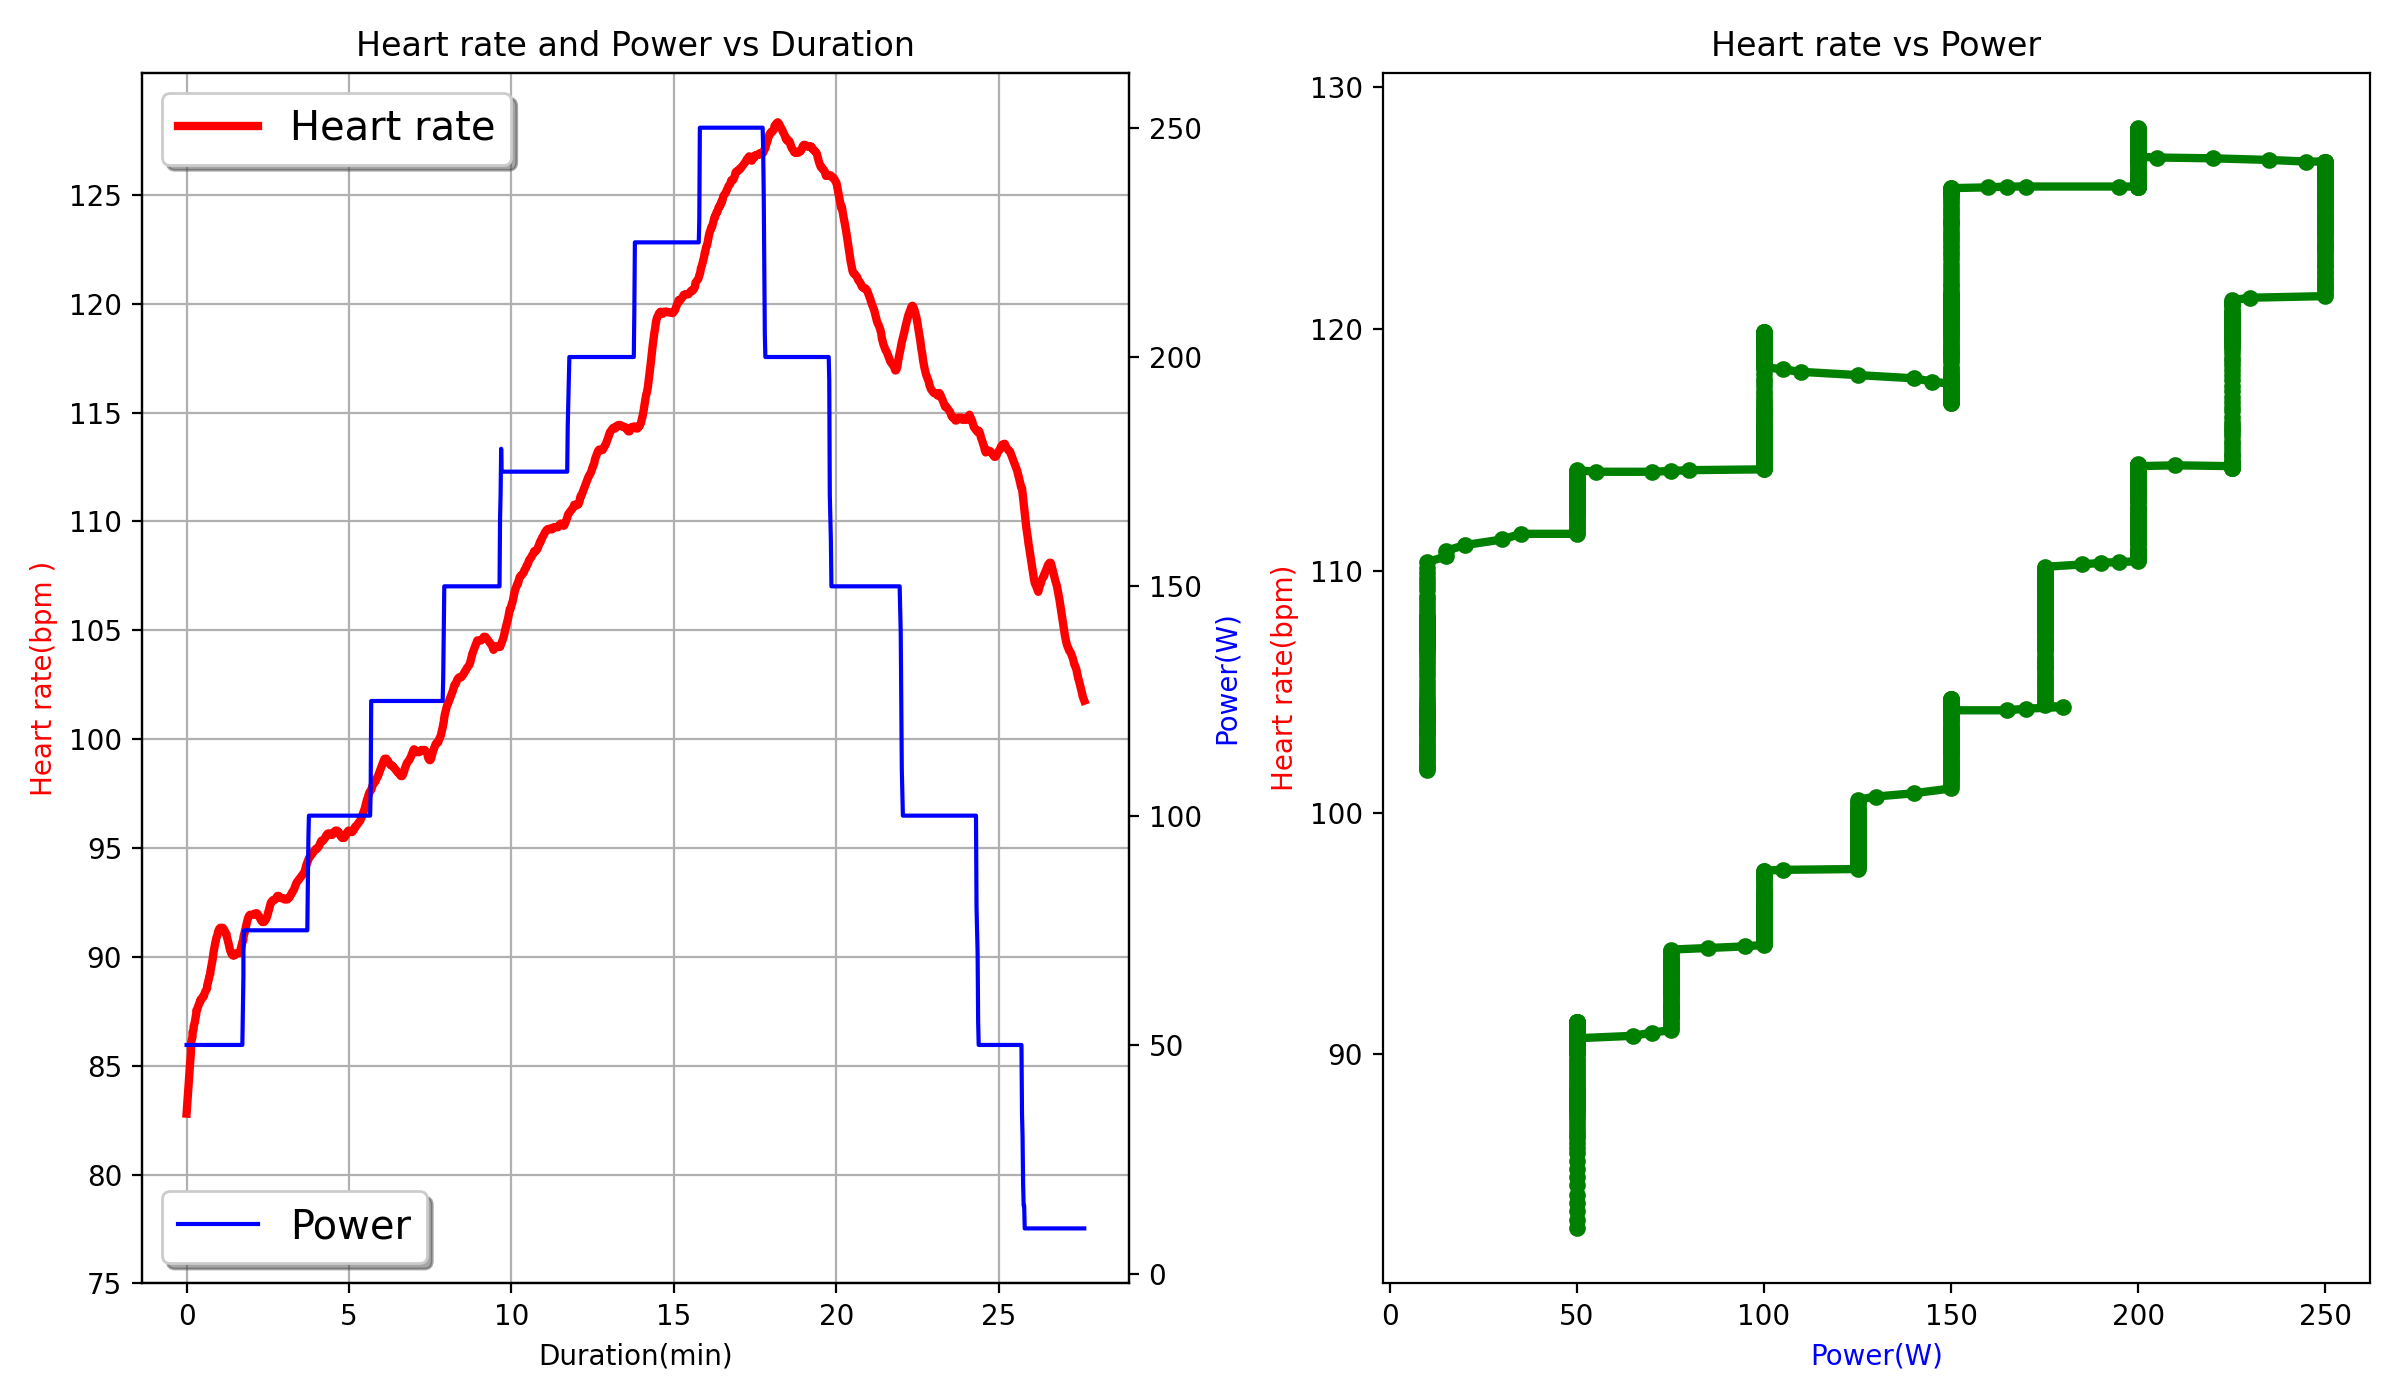
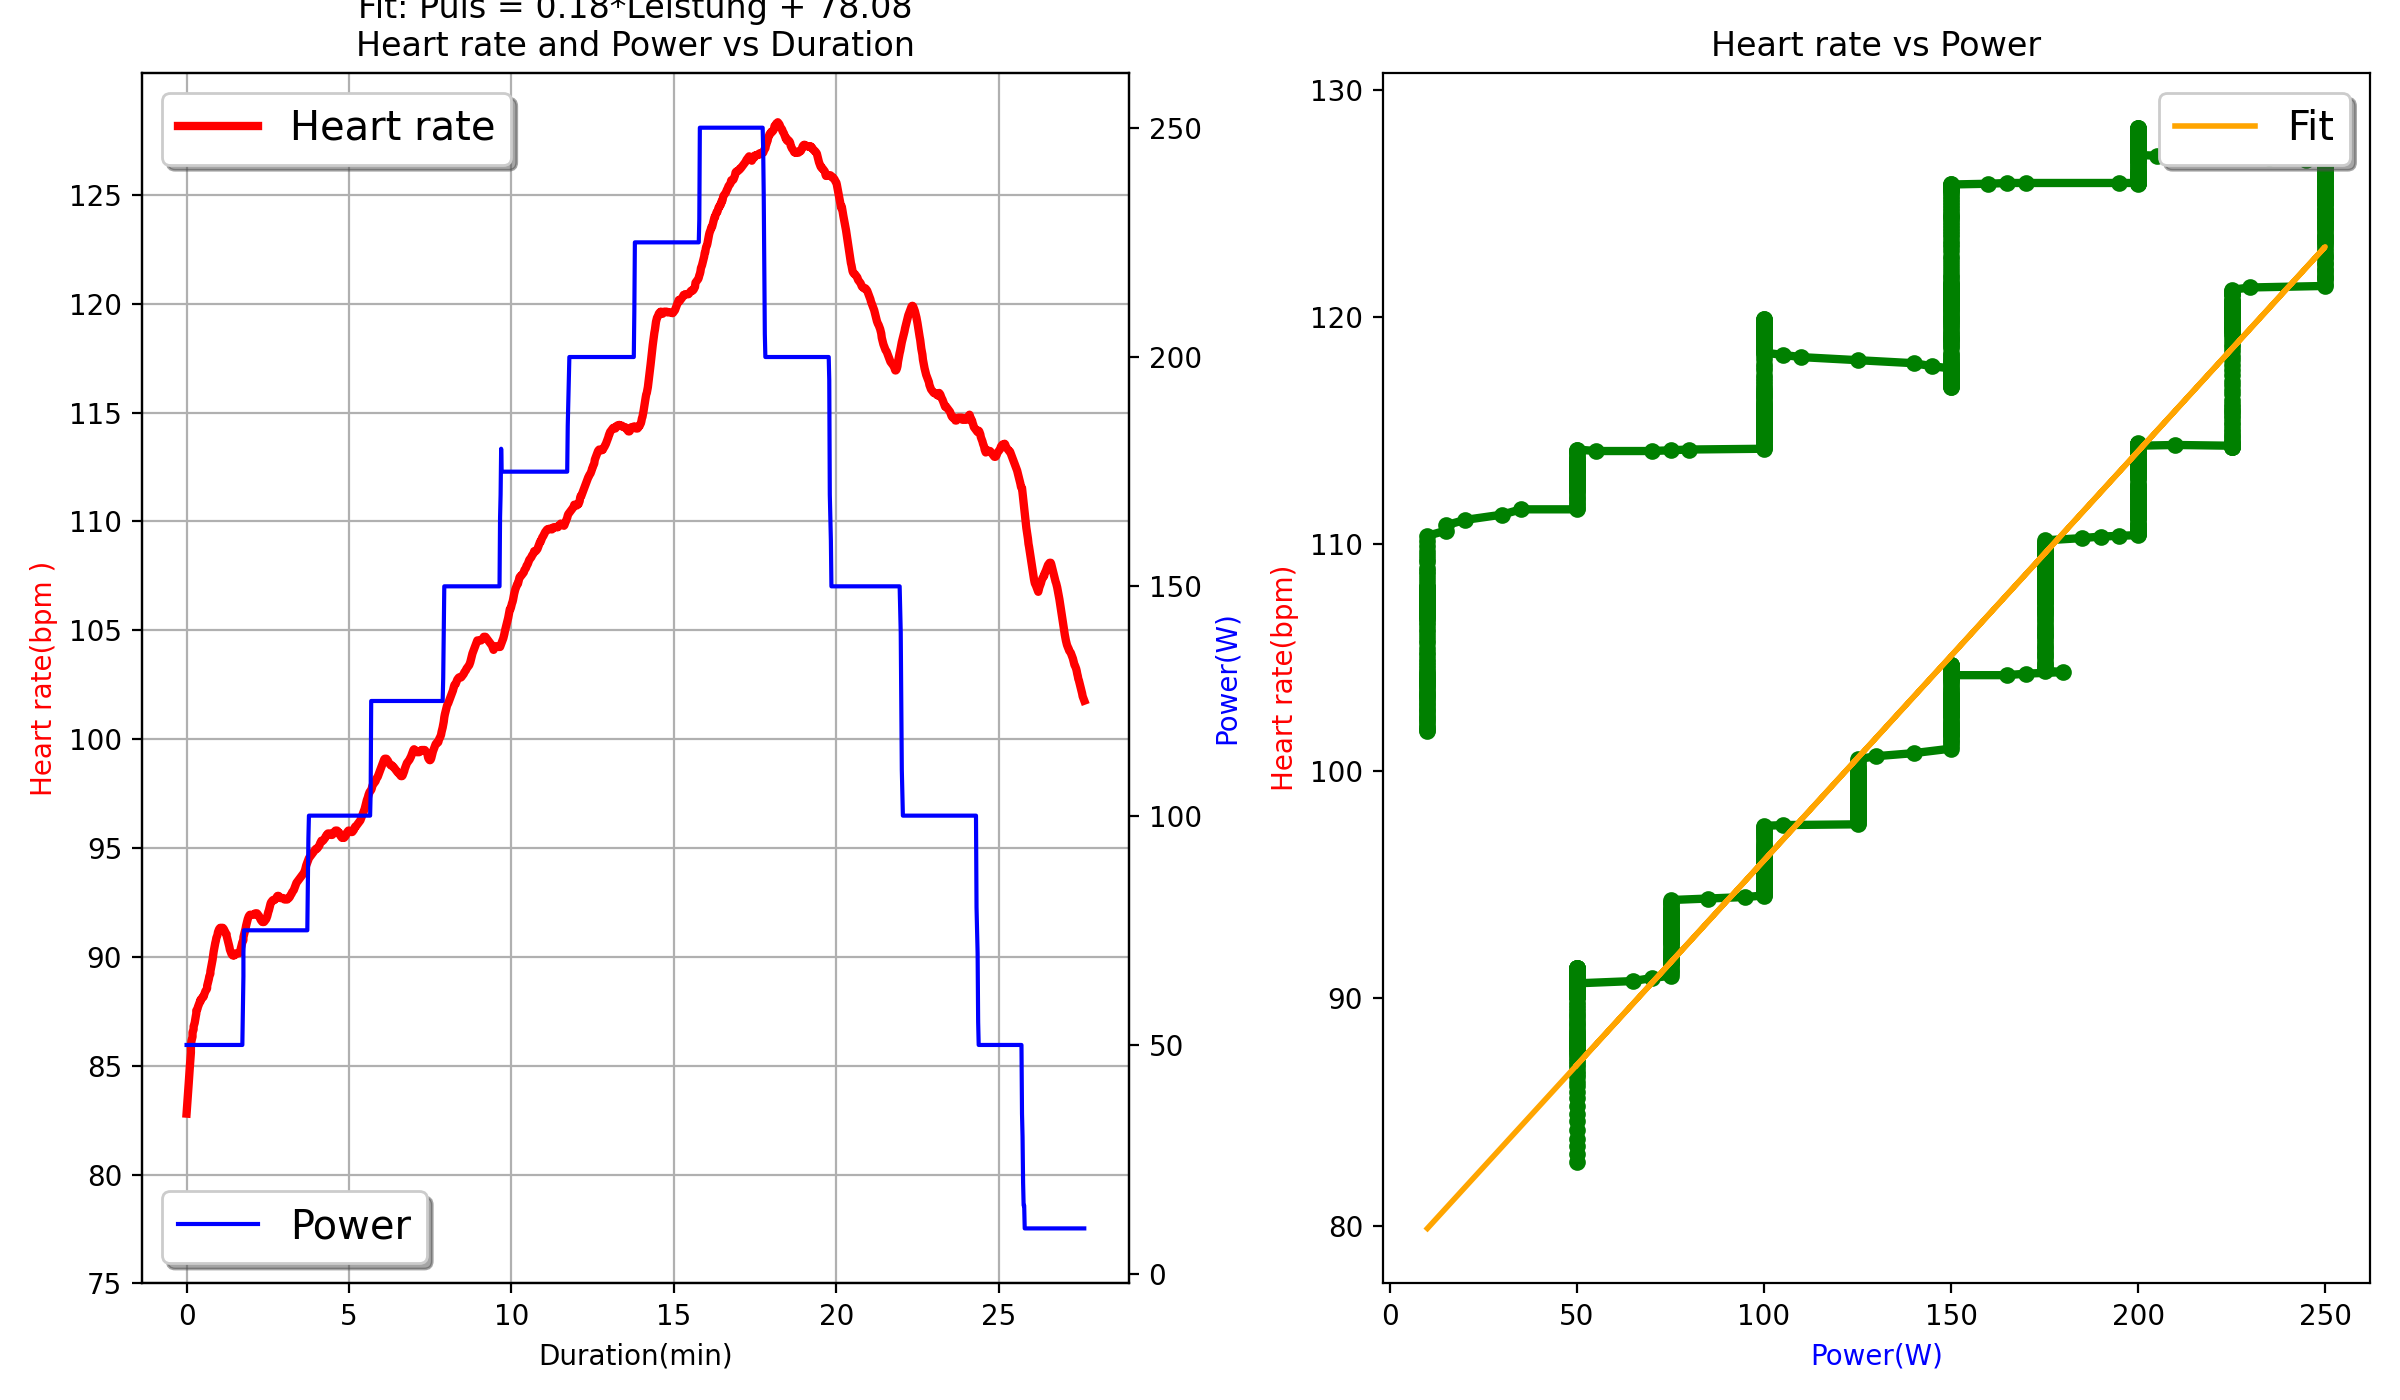
overlay a linear fit between Pulse and Power

diff --git a/kinomap.py b/kinomap.py
@@ -1,6 +1,7 @@
 
 import pandas as pd
 import numpy as np
+import numpy as np
 import matplotlib.pyplot as plt
 
 
@@ -61,9 +62,37 @@ ax3.set_xlabel('Power(W)', color='blue')
 ax3.set_ylabel('Heart rate(bpm)', color='red')
 ax3.set_title('Heart rate vs Power')
 
+# Fit linearly the Power to the Heart rate
+fit = np.polyfit(race['Power'][0:18*60], race['Smooth heart rate'][0:18*60], 1)
+
+# Get the slope and intercept of the linear fit
+slope = fit[0]
+intercept = fit[1]
+
+# Print the slope and intercept
+print("Slope:", slope)
+print("Intercept:", intercept)
+
+# Calculate the fitted values
+fit_values = slope * race['Power'] + intercept
+
+# Plot the fit
+ax3.plot(race['Power'], fit_values, color='orange', linewidth=2, label='Fit')
+
+# Add legend to ax3
+ax3.legend(shadow=True, fontsize='x-large', loc='upper right')
+
+
 plt.tight_layout()
+
+# Add Git parameters to the plot
 
 plt.savefig('kinomap.pdf')
 plt.savefig('kinomap.png')
+
+# Display fit parameters on the second plot
+ax3.text(0.95, 0.05, f'Fit: Pulse = {slope:.2f}*Power + {intercept:.2f}\n' +
+         f'Power = {(1/slope):.2f}*(Pulse-{intercept:.2f})',
+         transform=ax3.transAxes, ha='right', va='bottom', fontsize='x-large')
 
 plt.show()
